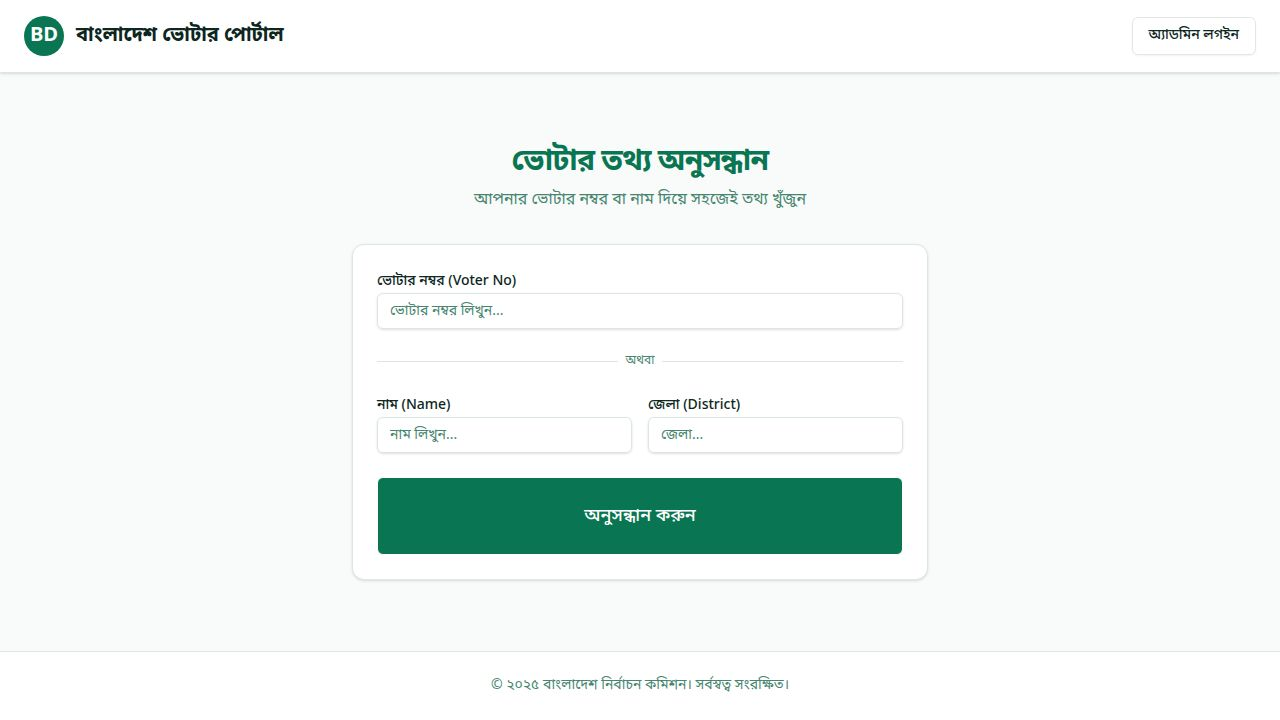
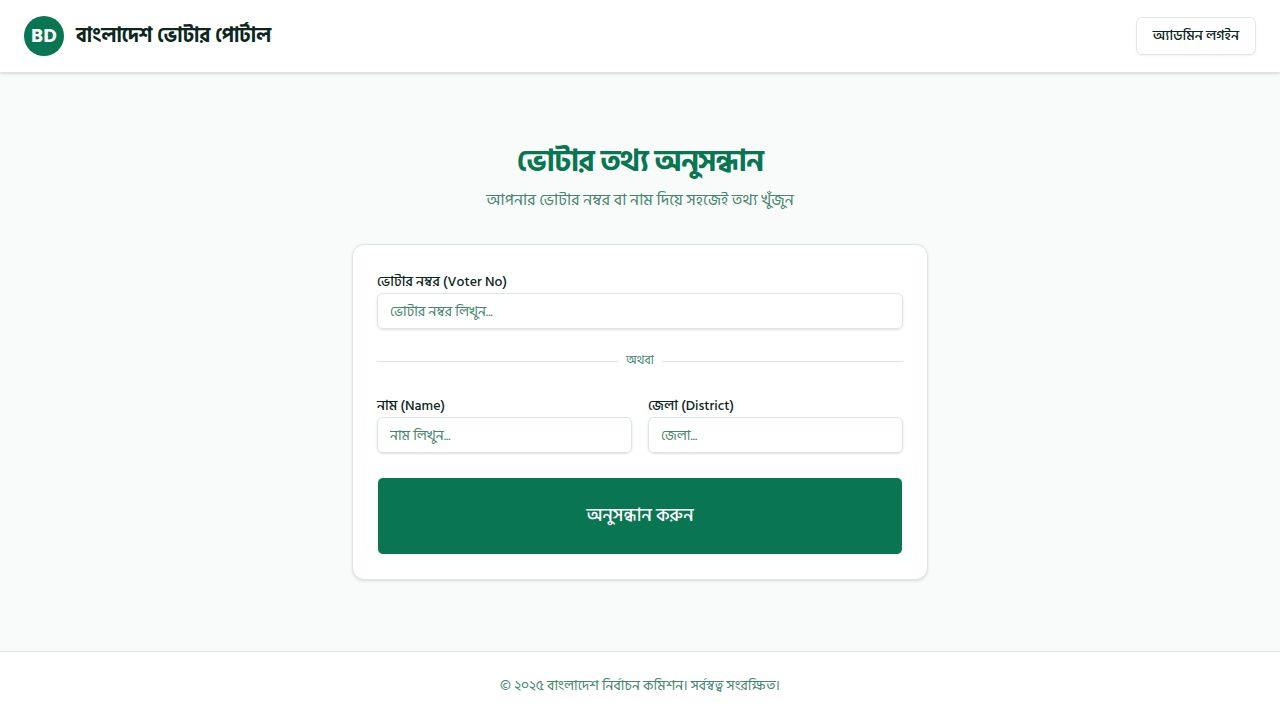
Ensure Bengali text displays correctly using local fonts
Remove Google Fonts dependency and corrupted font files, defaulting to locally-hosted Noto Sans Bengali for reliable rendering across all devices and character combinations.

Replit-Commit-Author: Agent
Replit-Commit-Session-Id: 3870fa6c-eeef-47e0-af6f-b6591909b501
Replit-Commit-Checkpoint-Type: full_checkpoint
Replit-Commit-Event-Id: e05b9364-0ba9-495e-a562-844144d7a3ce
Replit-Commit-Screenshot-Url: https://storage.googleapis.com/screenshot-production-us-central1/bffb25aa-03bf-43ff-9ca7-daaa40892ed6/3870fa6c-eeef-47e0-af6f-b6591909b501/bXBMQoC
Replit-Helium-Checkpoint-Created: true

diff --git a/artifacts/voter-portal/src/index.css b/artifacts/voter-portal/src/index.css
@@ -1,12 +1,4 @@
 @font-face {
-  font-family: 'SolaimanLipi';
-  font-style: normal;
-  font-weight: 400;
-  font-display: swap;
-  src: url('/fonts/SolaimanLipi.woff2') format('woff2'),
-       url('/fonts/SolaimanLipi.ttf') format('truetype');
-}
-@font-face {
   font-family: 'Noto Sans Bengali';
   font-style: normal;
   font-weight: 400;
@@ -139,14 +131,13 @@
   --chart-4: 180 50% 50%;
   --chart-5: 140 40% 55%;
 
-  --app-font-sans: 'Hind Siliguri', 'Noto Sans Bengali', sans-serif;
-  --app-font-bengali: 'Hind Siliguri', 'Noto Sans Bengali', sans-serif;
-  --app-font-serif: 'Hind Siliguri', 'Noto Sans Bengali', Georgia, serif;
+  --app-font-sans: 'Noto Sans Bengali', sans-serif;
+  --app-font-bengali: 'Noto Sans Bengali', sans-serif;
+  --app-font-serif: 'Noto Sans Bengali', Georgia, serif;
   --app-font-mono: Menlo, monospace;
   
   --radius: 0.5rem;
   
-  /* Buttons etc */
   --button-outline: rgba(0,0,0, .10);
   --badge-outline: rgba(0,0,0, .05);
   --opaque-button-border-intensity: -8;
@@ -198,12 +189,12 @@
   }
   body {
     @apply font-sans antialiased bg-background text-foreground;
-    font-family: 'Hind Siliguri', 'Noto Sans Bengali', sans-serif;
+    font-family: 'Noto Sans Bengali', sans-serif;
   }
   .font-bengali {
-    font-family: 'Hind Siliguri', 'Noto Sans Bengali', sans-serif !important;
+    font-family: 'Noto Sans Bengali', sans-serif !important;
   }
   input, textarea, select, button {
-    font-family: 'Hind Siliguri', 'Noto Sans Bengali', sans-serif;
+    font-family: 'Noto Sans Bengali', sans-serif;
   }
 }

diff --git a/artifacts/voter-portal/index.html b/artifacts/voter-portal/index.html
@@ -10,9 +10,6 @@
     <meta property="og:description" content="বাংলাদেশ ভোটার তথ্য অনুসন্ধান পোর্টাল" />
     <meta property="og:type" content="website" />
     <link rel="icon" type="image/svg+xml" href="/favicon.svg" />
-    <link rel="preconnect" href="https://fonts.googleapis.com" />
-    <link rel="preconnect" href="https://fonts.gstatic.com" crossorigin />
-    <link href="https://fonts.googleapis.com/css2?family=Hind+Siliguri:wght@300;400;500;600;700&display=swap" rel="stylesheet" />
   </head>
   <body>
     <div id="root"></div>